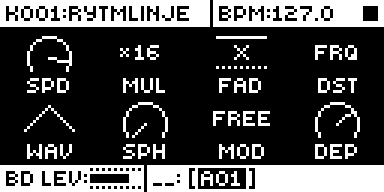
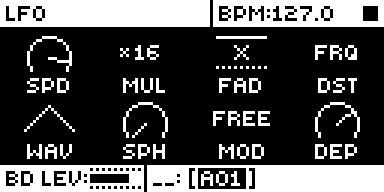
Quick Mod Assign 0.3.0: screenshots captured from this version (QM30 in rytm-emu)

Changed region(s): [[0.0, 0.0312, 0.5, 0.125]]

diff --git a/sdk/analog-rytm-mkii/modules/quick-velocity-aftertouch-assign/README.md b/sdk/analog-rytm-mkii/modules/quick-velocity-aftertouch-assign/README.md
@@ -80,4 +80,4 @@ Screenshots are rytm-emu captures of build QM21 ([media/capture.json](media/capt
 
 ![VELOCITY MODS FULL](media/mods-full.png) ![Stock's MODULATION SETUP showing the link](media/mod-setup.png)
 
-![FILTER page with LFO held: FRQ is the LFO's destination at depth +45.14](media/lfo-filter.png) ![The LFO page after the hold: DST FRQ](media/lfo-page.png)
+![FILTER page with LFO held: FRQ is the LFO's destination at depth +46.96](media/lfo-filter.png) ![The LFO page after the hold: DST FRQ](media/lfo-page.png)
